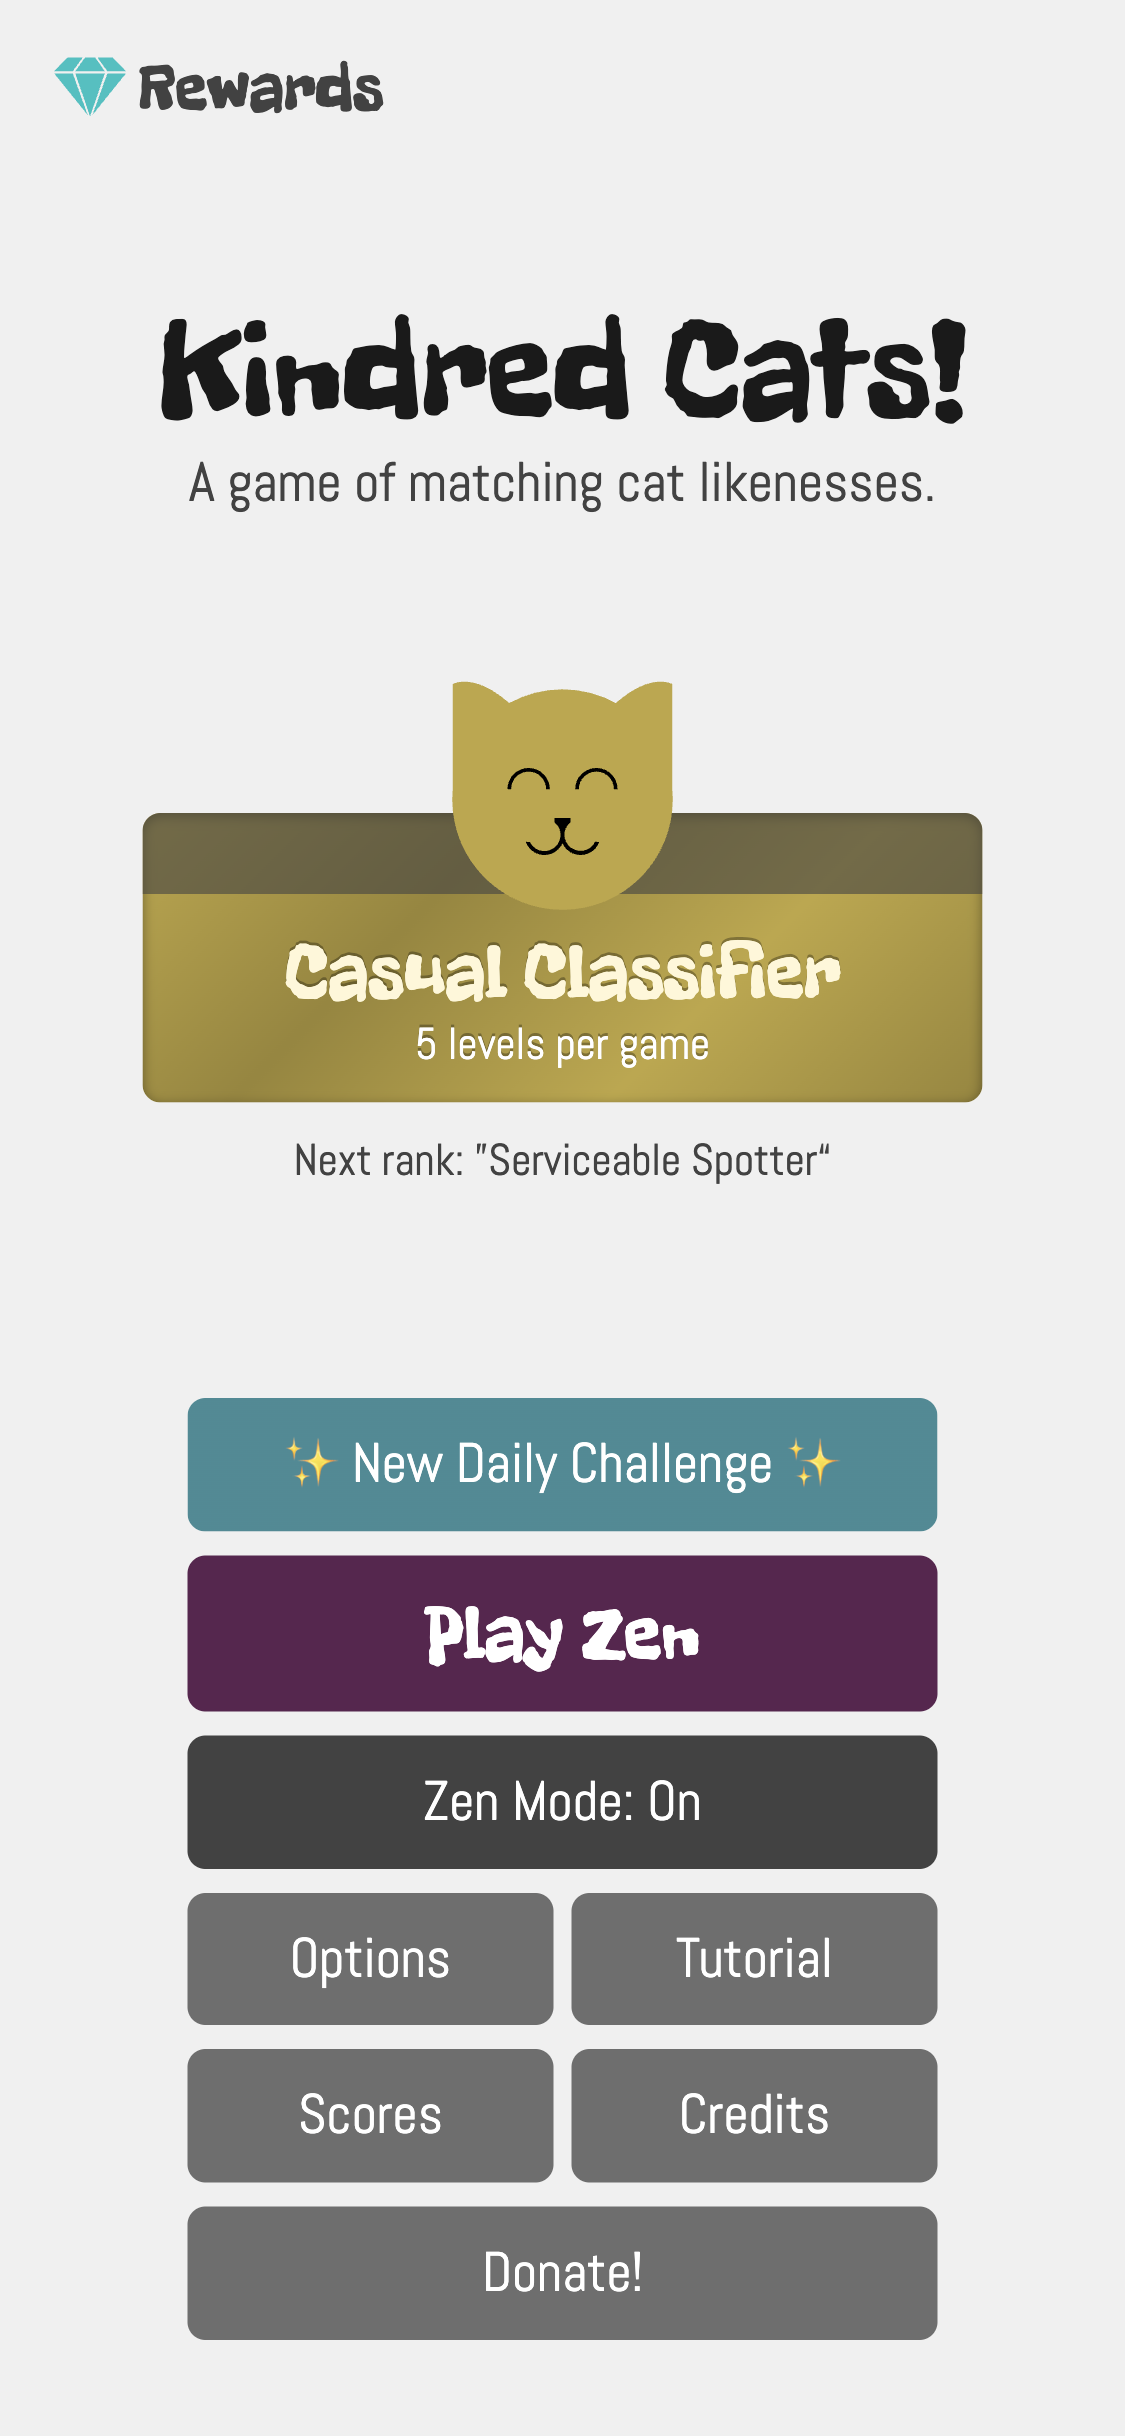
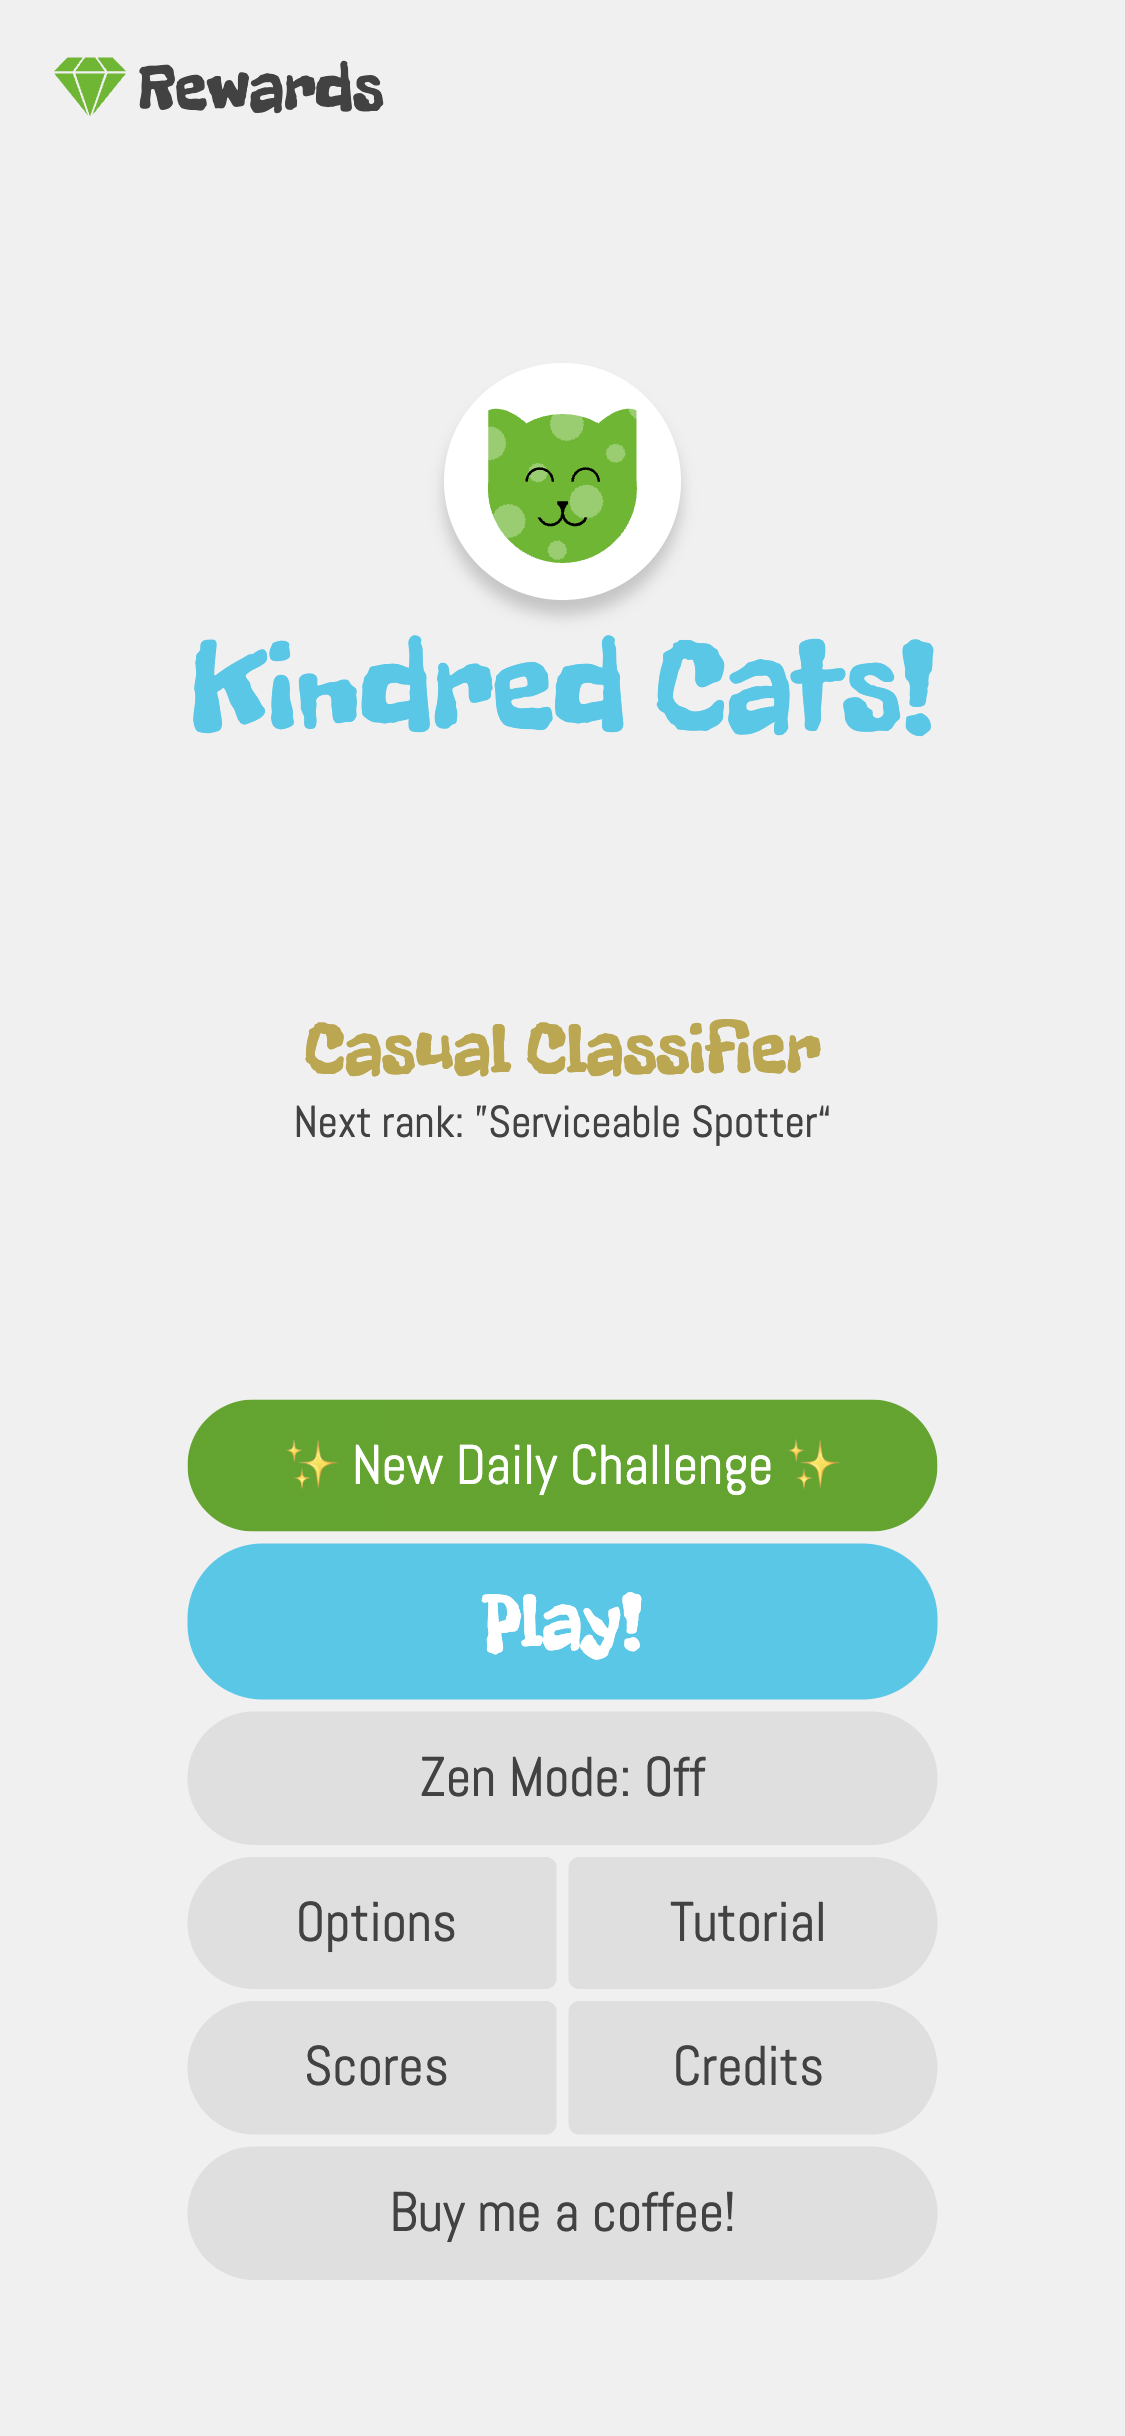
kindred cats branding

diff --git a/models/PageObject.min.js b/models/PageObject.min.js
@@ -1,1 +1,1 @@
-class PageObject{constructor(e){this.name=null==e.name?"name":e.name,this.description=null==e.description?"description":e.description,this.price=null==e.price?0:e.price,this.priceText=void 0===e.priceText?"Free":e.priceText,this.googleplayurl=null==e.googleplayurl?"":e.googleplayurl,this.appleappstoreurl=null==e.appleappstoreurl?"":e.appleappstoreurl,this.msappstore=null==e.msappstore?"":e.msappstore,this.about=null==e.about?"":e.about,this.aboutExtra=null==e.aboutExtra?"":e.aboutExtra,this.showMore=void 0!==e.showMore&&e.showMore,this.video=void 0===e.video?"":e.video,this.versionHistory=null==e.versionHistory?"":e.versionHistory,this.version=null==e.version?"":e.version,this.path=null==e.path?"path":e.path,this.url=null==e.url?"url":e.url,this.iconUrl=void 0===e.iconUrl?"./images/icon512.png":e.iconUrl,this.isSelected=null!=e.isSelected&&e.isSelected,this.showInNav=null==e.showInNav||e.showInNav,this.showAsGame=null==e.showAsGame||e.showAsGame,this.backgroundColor=null==e.backgroundColor?"":e.backgroundColor,this.contentBackgroundColor=null==e.contentBackgroundColor?"rgba(250,250,250,.9)":e.contentBackgroundColor,this.useBanner=void 0===e.useBanner||e.useBanner,this.bannerText=void 0===e.bannerText?"beta":e.bannerText,this.bannerType=void 0===e.bannerType?"beta":e.bannerType,this.features=void 0===e.features?[]:e.features,this.screenshots=void 0===e.screenshots?[]:e.screenshots,this.isMobileFirst=void 0===e.isMobileFirst||e.isMobileFirst,this.communities=void 0===e.communities?[]:e.communities,this.quotes=void 0===e.quotes?[]:e.quotes,this.isPWA=void 0===e.isPWA||e.isPWA}}var Pages=[new PageObject({name:"Home",description:"Home page.",path:"home",url:".",showAsGame:!1,useBanner:!1}),new PageObject({name:"Privacy Policy",description:"Privacy Policy page.",path:"privacy",url:".",showAsGame:!1,useBanner:!1,showInNav:!1,backgroundColor:"hsl(var(--bannerHS), 25%)"}),new PageObject({name:"Kindred Cats!",description:"A game of matching cat likenesses",path:"kindredcats",url:"https://kindredcats.bigtentgames.com",iconUrl:"images/kindredcats/icon512-btg.svg",features:["Brain training","Casual gameplay","Competitive gameplay","Alternate patterns","Color themes","Dark mode","Cat mode!","Score sharing","High scores"],about:'<p>Reminiscent of the card game "Set," the object of this fast-paced, casual mobile game is to observe the main cat and then select all other cats on the board that share <b>at least 2</b> of the following 3 attributes: color, shape, and pattern. There are 4 unique games modes for all types of players!</p>',aboutExtra:["<h2>Ranks</h2>",'<p>There are 7 ranks that you can unlock as you improve over time. Each rank increases the number of levels per game. In order to unlock the next higher rank, you have to clear 3 perfect levels at the current rank. Are you a "Super Selector"?<p>',"<h2>Game Modes</h2>","<p><b>Basic Mode</b><br />This is the default mode. Your game starts with a one minute countdown. Clear as many levels as possible. Getting a level right on your first guess adds 3 seconds to the countdown. At first, players typically only clear a few levels per game. Eventually, players start clearing 100s of levels per game!</p>","<p><b>Daily Challenge</b><br />Compete with your friends with daily, pre-generated levels. The number of levels in your daily challenge is dependant on your current rank.<p>","<p><b>Zen Mode</b><br />No timer and no stress. Think of this as a flow enabling, fidget-spinning brain trainer.</p>"],backgroundColor:"hsla(187.2, 42.74%, 45.88%, 1)",screenshots:["1.png","2.png","3.png","4.png","5.png","6.png","7.png","8.png"],priceText:"free",bannerText:"free",bannerType:"free",version:"1.0.006"}),new PageObject({name:"Drop 'n Stop!",description:"The puck stops here",about:"Fast and fun, the object of this game is to test your reaction time. Hold the drop button and release when the puck hits the dropzone.",aboutExtra:["<h2>Game Modes</h2>","<p><b>Campaign mode</b><br /><p>In this default gameplay mode, there are 6 campaigns that you can unlock as you improve over time. Each campaigns has 6 sets, each with 5 to 10 levels (most have 10). The game starts easy, then challenges you incrementally over time. By the time you get to the final level you'll have dealt with hidden pucks, hidden dropzones, small and large pucks, speedy and slow pucks: all mixed together. How close to perfection can you get?<p>","<p><b>Zen Mode</b><br />This is a feature that is coming soon!</p>"],path:"dropnstop",url:"https://dropnstop.bigtentgames.com",iconUrl:"images/dropnstop/icon512-btg.svg",features:["Fast paced","Casual game play","Reaction training","Campaigns","Color themes"],screenshots:["1.png","2.png","3.png","4.png","5.png","6.png","7.png","8.png"],backgroundColor:"rgb(200, 100, 156)",priceText:"free",bannerText:"free",bannerType:"free"}),new PageObject({name:"Facets",priceText:"free",bannerText:"free",bannerType:"free",isPWA:!1,description:"A game of words and wits!",about:'<p>If you\'ve played "Connections," "CodeNames," or "So Clover," you\'ll be right at home with Facets! This quick online game challenges you to create or guess word puzzles that can bring you and your friends closer to each other.</p>',aboutExtra:["<h2>About</h2>",'<p>The challenge of "Facets" is to connect different words that may or may not be easily connected. Players take turns creating and guessing each other\'s puzzles over social media, text, messages, or other chat apps.</p>','<p>Choose words in different languages (English, Spanish, German, French, Arabic, Chinese (simplified), and Japanese so far) from a growing catalog of word categories like "Civilization," "Entertainment," "Science," and "Seasons." Each category provides a unique window into how you and your friends think or don\'t think alike!</p>',"<ul><li>When the gem is a sapphire, you are creating a puzzle.</li><li>When the gem is an emerald, you are guessing a puzzle a friend sent you.</li><li>When the gem is a ruby, you are reviewing a friend's guess.</li></ul>","<p>Because the game is entirely URL based, no other information is stored on a server or in the cloud. URL based turns also means you can revisit any guess or challenge any time, as long as you have the original message your friend sent you."],path:"facets",url:"https://facets.bigtentgames.com/open",iconUrl:"images/facets/icon512-btg.svg",features:["Word play","Low stakes","Fast paced","Turn based","Casual game play","Brain training"],screenshots:["1.png","2.png","3.png","4.png","5.png","6.png"],backgroundColor:"rgb(46, 106, 149)",communities:[{service:"Discord",name:"Big Tent Games Server",url:"https://discord.gg/sJ3vG3RHZd",links:[{name:"Facets - General",url:"https://discord.com/channels/1148025462598139934/1339449000633569292"},{name:"Facets - Feedback",url:"https://discord.com/channels/1148025462598139934/1339449108901007462"},{name:"Facets - Bug Reports",url:"https://discord.com/channels/1148025462598139934/1339449140228390992"}]}]}),new PageObject({name:"CommOddities!",description:"Not everything is an easy sell",about:'If you ever played "Dope Wars" on a Palm Pilot back in the day, then you have an idea how this game plays. Basically you have 365 "days" to buy/sell for as much profit as possible. Your moral compass will be tested!',path:"commoddities",url:"https://commoddities.bigtentgames.com",iconUrl:"images/commoddities/icon512-btg.svg",screenshots:["1.png","2.png","3.png","4.png","5.png","7.png"],bannerText:"alpha",bannerType:"alpha",backgroundColor:"rgb(43, 135, 101)"}),new PageObject({name:"Path",description:"Paths are the means to an end",about:"Not ready for mobile play at all. Proof of concept at best. Play at your own risk :).",path:"path",url:"https://path.bigtentgames.com",iconUrl:"images/path/icon512-btg.svg",backgroundColor:"color(display-p3 0.3608 0.7882 0.9804)",screenshots:["1.png","2.png","3.png"],bannerText:"alpha",bannerType:"alpha",isMobileFirst:!1})];
+class PageObject{constructor(e){this.name=null==e.name?"name":e.name,this.description=null==e.description?"description":e.description,this.price=null==e.price?0:e.price,this.priceText=void 0===e.priceText?"Free":e.priceText,this.googleplayurl=null==e.googleplayurl?"":e.googleplayurl,this.appleappstoreurl=null==e.appleappstoreurl?"":e.appleappstoreurl,this.msappstore=null==e.msappstore?"":e.msappstore,this.about=null==e.about?"":e.about,this.aboutExtra=null==e.aboutExtra?"":e.aboutExtra,this.showMore=void 0!==e.showMore&&e.showMore,this.video=void 0===e.video?"":e.video,this.versionHistory=null==e.versionHistory?"":e.versionHistory,this.version=null==e.version?"":e.version,this.path=null==e.path?"path":e.path,this.url=null==e.url?"url":e.url,this.iconUrl=void 0===e.iconUrl?"./images/icon512.png":e.iconUrl,this.isSelected=null!=e.isSelected&&e.isSelected,this.showInNav=null==e.showInNav||e.showInNav,this.showAsGame=null==e.showAsGame||e.showAsGame,this.backgroundColor=null==e.backgroundColor?"":e.backgroundColor,this.contentBackgroundColor=null==e.contentBackgroundColor?"rgba(250,250,250,.9)":e.contentBackgroundColor,this.useBanner=void 0===e.useBanner||e.useBanner,this.bannerText=void 0===e.bannerText?"beta":e.bannerText,this.bannerType=void 0===e.bannerType?"beta":e.bannerType,this.features=void 0===e.features?[]:e.features,this.screenshots=void 0===e.screenshots?[]:e.screenshots,this.isMobileFirst=void 0===e.isMobileFirst||e.isMobileFirst,this.communities=void 0===e.communities?[]:e.communities,this.quotes=void 0===e.quotes?[]:e.quotes,this.isPWA=void 0===e.isPWA||e.isPWA}}var Pages=[new PageObject({name:"Home",description:"Home page.",path:"home",url:".",showAsGame:!1,useBanner:!1}),new PageObject({name:"Privacy Policy",description:"Privacy Policy page.",path:"privacy",url:".",showAsGame:!1,useBanner:!1,showInNav:!1,backgroundColor:"hsl(var(--bannerHS), 25%)"}),new PageObject({name:"Kindred Cats!",description:"A game of matching cat likenesses",path:"kindredcats",url:"https://kindredcats.bigtentgames.com",iconUrl:"images/kindredcats/icon512-btg.svg",features:["Brain training","Casual gameplay","Competitive gameplay","Alternate patterns","Color themes","Dark mode","Cat mode!","Score sharing","High scores"],about:'<p>Reminiscent of the card game "Set," the object of this fast-paced, casual mobile game is to observe the main cat and then select all other cats on the board that share <b>at least 2</b> of the following 3 attributes: color, shape, and pattern. There are 4 unique games modes for all types of players!</p>',aboutExtra:["<h2>Ranks</h2>",'<p>There are 7 ranks that you can unlock as you improve over time. Each rank increases the number of levels per game. In order to unlock the next higher rank, you have to clear 3 perfect levels at the current rank. Are you a "Super Selector"?<p>',"<h2>Game Modes</h2>","<p><b>Basic Mode</b><br />This is the default mode. Your game starts with a one minute countdown. Clear as many levels as possible. Getting a level right on your first guess adds 3 seconds to the countdown. At first, players typically only clear a few levels per game. Eventually, players start clearing 100s of levels per game!</p>","<p><b>Daily Challenge</b><br />Compete with your friends with daily, pre-generated levels. The number of levels in your daily challenge is dependant on your current rank.<p>","<p><b>Zen Mode</b><br />No timer and no stress. Think of this as a flow enabling, fidget-spinning brain trainer.</p>"],backgroundColor:"rgb(84, 184, 0)",screenshots:["1.png","2.png","3.png","4.png","5.png","6.png","7.png","8.png"],priceText:"free",bannerText:"free",bannerType:"free",version:"1.0.006"}),new PageObject({name:"Drop 'n Stop!",description:"The puck stops here",about:"Fast and fun, the object of this game is to test your reaction time. Hold the drop button and release when the puck hits the dropzone.",aboutExtra:["<h2>Game Modes</h2>","<p><b>Campaign mode</b><br /><p>In this default gameplay mode, there are 6 campaigns that you can unlock as you improve over time. Each campaigns has 6 sets, each with 5 to 10 levels (most have 10). The game starts easy, then challenges you incrementally over time. By the time you get to the final level you'll have dealt with hidden pucks, hidden dropzones, small and large pucks, speedy and slow pucks: all mixed together. How close to perfection can you get?<p>","<p><b>Zen Mode</b><br />This is a feature that is coming soon!</p>"],path:"dropnstop",url:"https://dropnstop.bigtentgames.com",iconUrl:"images/dropnstop/icon512-btg.svg",features:["Fast paced","Casual game play","Reaction training","Campaigns","Color themes"],screenshots:["1.png","2.png","3.png","4.png","5.png","6.png","7.png","8.png"],backgroundColor:"rgb(200, 100, 156)",priceText:"free",bannerText:"free",bannerType:"free"}),new PageObject({name:"Facets",priceText:"free",bannerText:"free",bannerType:"free",isPWA:!1,description:"A game of words and wits!",about:'<p>If you\'ve played "Connections," "CodeNames," or "So Clover," you\'ll be right at home with Facets! This quick online game challenges you to create or guess word puzzles that can bring you and your friends closer to each other.</p>',aboutExtra:["<h2>About</h2>",'<p>The challenge of "Facets" is to connect different words that may or may not be easily connected. Players take turns creating and guessing each other\'s puzzles over social media, text, messages, or other chat apps.</p>','<p>Choose words in different languages (English, Spanish, German, French, Arabic, Chinese (simplified), and Japanese so far) from a growing catalog of word categories like "Civilization," "Entertainment," "Science," and "Seasons." Each category provides a unique window into how you and your friends think or don\'t think alike!</p>',"<ul><li>When the gem is a sapphire, you are creating a puzzle.</li><li>When the gem is an emerald, you are guessing a puzzle a friend sent you.</li><li>When the gem is a ruby, you are reviewing a friend's guess.</li></ul>","<p>Because the game is entirely URL based, no other information is stored on a server or in the cloud. URL based turns also means you can revisit any guess or challenge any time, as long as you have the original message your friend sent you."],path:"facets",url:"https://facets.bigtentgames.com/open",iconUrl:"images/facets/icon512-btg.svg",features:["Word play","Low stakes","Fast paced","Turn based","Casual game play","Brain training"],screenshots:["1.png","2.png","3.png","4.png","5.png","6.png"],backgroundColor:"rgb(46, 106, 149)",communities:[{service:"Discord",name:"Big Tent Games Server",url:"https://discord.gg/sJ3vG3RHZd",links:[{name:"Facets - General",url:"https://discord.com/channels/1148025462598139934/1339449000633569292"},{name:"Facets - Feedback",url:"https://discord.com/channels/1148025462598139934/1339449108901007462"},{name:"Facets - Bug Reports",url:"https://discord.com/channels/1148025462598139934/1339449140228390992"}]}]}),new PageObject({name:"CommOddities!",description:"Not everything is an easy sell",about:'If you ever played "Dope Wars" on a Palm Pilot back in the day, then you have an idea how this game plays. Basically you have 365 "days" to buy/sell for as much profit as possible. Your moral compass will be tested!',path:"commoddities",url:"https://commoddities.bigtentgames.com",iconUrl:"images/commoddities/icon512-btg.svg",screenshots:["1.png","2.png","3.png","4.png","5.png","7.png"],bannerText:"alpha",bannerType:"alpha",backgroundColor:"rgb(43, 135, 101)"}),new PageObject({name:"Path",description:"Paths are the means to an end",about:"Not ready for mobile play at all. Proof of concept at best. Play at your own risk :).",path:"path",url:"https://path.bigtentgames.com",iconUrl:"images/path/icon512-btg.svg",backgroundColor:"color(display-p3 0.3608 0.7882 0.9804)",screenshots:["1.png","2.png","3.png"],bannerText:"alpha",bannerType:"alpha",isMobileFirst:!1})];

diff --git a/models/PageObject.js b/models/PageObject.js
@@ -68,7 +68,7 @@ var Pages = [
       '<p><b>Daily Challenge</b><br />Compete with your friends with daily, pre-generated levels. The number of levels in your daily challenge is dependant on your current rank.<p>',
       '<p><b>Zen Mode</b><br />No timer and no stress. Think of this as a flow enabling, fidget-spinning brain trainer.</p>',
     ],
-    backgroundColor: 'hsla(187.2, 42.74%, 45.88%, 1)',
+    backgroundColor: 'rgb(84, 184, 0)',
     screenshots: ['1.png', '2.png', '3.png', '4.png', '5.png', '6.png', '7.png', '8.png'],
     priceText: 'free',
     bannerText: 'free',
